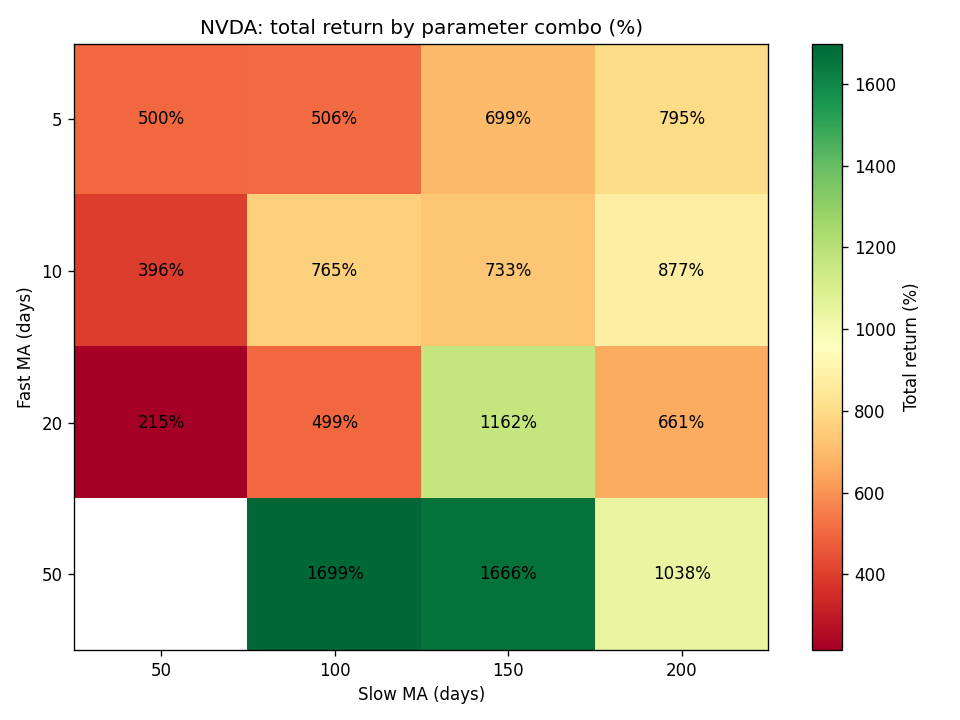
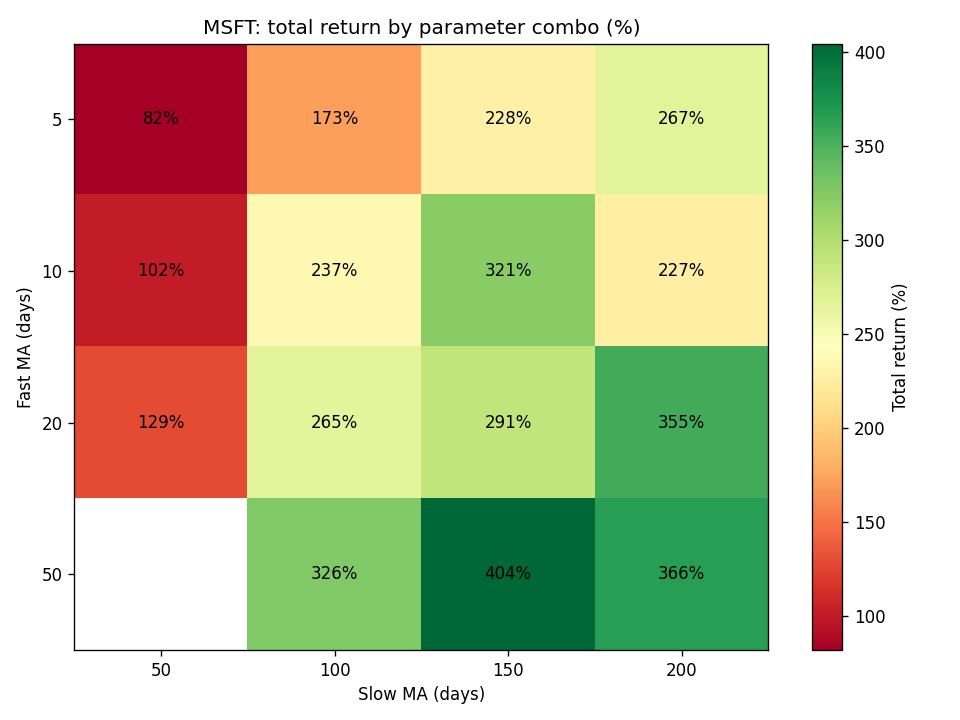
Test stop-loss and take-profit: 240% to 404% return on MSFT, beat buy and hold(290%)

diff --git a/backtest.py b/backtest.py
@@ -41,12 +41,20 @@ SLOW_MA = 50               # slow (long) moving average, in days
 
 COST_PER_TRADE = 0.001     # fee per trade (0.001 = 0.1%)
 
+# Risk management: exit a position early if it hits these (0 = disabled)
+STOP_LOSS_PCT = 0.05       # exit if down 5% from entry (0.05 = 5%), or 0 to disable
+TAKE_PROFIT_PCT = 0.10     # exit if up 10% from entry (0.10 = 10%), or 0 to disable
+
 # What to run:
-#   "single" -> test the one FAST_MA / SLOW_MA combo above (and draw the chart)
-#   "sweep"  -> test many combos below, rank them, and draw a heatmap
-MODE = "single"
+#   "single"       -> test one FAST_MA / SLOW_MA combo (and draw the chart)
+#   "sweep"        -> test many combos below, rank them, and draw a heatmap
+#   "multi_stock"  -> test the same params across many tickers below
+MODE = "sweep"
 SWEEP_FAST = [5, 10, 20, 50]      # fast windows to try in sweep mode
 SWEEP_SLOW = [50, 100, 150, 200]  # slow windows to try in sweep mode
+
+# For multi_stock mode: test the strategy on these tickers
+TICKERS_TO_TEST = ["MSFT", "NVDA", "TSLA", "AAPL"]
 
 # ============================================================
 #   (you don't need to touch anything below this line)
@@ -72,22 +80,51 @@ def get_prices(ticker, start, end):
     return close.to_frame("Close")
 
 
-def run_backtest(data, short_window, long_window, cost_per_trade):
-    """Apply the crossover rule and compute day-by-day results."""
+def run_backtest(data, short_window, long_window, cost_per_trade,
+                 stop_loss_pct=0, take_profit_pct=0):
+    """Apply the crossover rule with optional stop-loss and take-profit."""
 
     # 1) The two moving averages.
     data["ma_short"] = data["Close"].rolling(short_window).mean()
     data["ma_long"] = data["Close"].rolling(long_window).mean()
 
-    # 2) The target: 1.0 = "be fully in the stock", 0 = "be in cash".
-    target = (data["ma_short"] > data["ma_long"]).astype(float)
+    # 2) The signal from the crossover.
+    signal = (data["ma_short"] > data["ma_long"]).astype(int)
+    target = signal.shift(1).fillna(0)
 
-    # 3) THE MOST IMPORTANT LINE.
-    #    We act on YESTERDAY'S target, not today's. In real life you can't see
-    #    today's closing price and trade at that same close — so we shift the
-    #    target forward one day. Skipping this is the #1 way beginners fool
-    #    themselves into fake profits ("lookahead bias").
-    data["position"] = target.shift(1).fillna(0)
+    # 3) Apply stop-loss and take-profit on top of the MA signal.
+    #    Track entry price and exit if stop or profit is hit.
+    position = np.zeros(len(data))
+    entry_price = None
+    
+    for i in range(len(data)):
+        current_price = data["Close"].iloc[i]
+        
+        if position[i-1] == 0 and target.iloc[i] == 1:
+            # Entering the market.
+            position[i] = 1
+            entry_price = current_price
+        elif position[i-1] == 1:
+            # Already in the market — check stop/profit before checking MA signal.
+            price_change = (current_price - entry_price) / entry_price
+            
+            hit_stop = stop_loss_pct > 0 and price_change <= -stop_loss_pct
+            hit_profit = take_profit_pct > 0 and price_change >= take_profit_pct
+            
+            if hit_stop or hit_profit:
+                # Exit due to stop-loss or take-profit (override MA signal).
+                position[i] = 0
+                entry_price = None
+            elif target.iloc[i] == 0:
+                # Exit due to MA signal crossing.
+                position[i] = 0
+                entry_price = None
+            else:
+                # Stay in position.
+                position[i] = 1
+        # else: position[i-1] == 0 and target.iloc[i] == 0, so stay in cash.
+    
+    data["position"] = position
 
     # 4) The stock's daily percentage change.
     data["mkt_ret"] = data["Close"].pct_change().fillna(0)
@@ -99,12 +136,11 @@ def run_backtest(data, short_window, long_window, cost_per_trade):
     turnover = data["position"].diff().abs().fillna(0)
     data["strat_ret"] = data["strat_ret"] - turnover * cost_per_trade
 
-    # 7) Turn the stream of daily returns into a growing account balance,
-    #    starting from $1. This is what we plot.
+    # 7) Turn the stream of daily returns into a growing account balance.
     data["strat_equity"] = (1 + data["strat_ret"]).cumprod()
     data["hold_equity"] = (1 + data["mkt_ret"]).cumprod()
 
-    # Count a "trade" as moving in or out of the market (flat <-> invested).
+    # Count a "trade" as moving in or out of the market.
     in_market = (data["position"] > 0).astype(int)
     n_trades = int(in_market.diff().abs().fillna(0).sum())
 
@@ -210,14 +246,57 @@ def save_chart(ticker, fast, slow, data):
     print("\nChart saved to results.png (2 panels: strategy trades + equity curves)")
 
 
-def run_sweep(prices, fast_list, slow_list, cost, ticker):
+def run_multi_stock(tickers, fast, slow, start, end, cost, stop_loss, take_profit):
+    """Test the same strategy on multiple stocks and rank by return."""
+    rows = []
+    
+    for ticker in tickers:
+        try:
+            prices = get_prices(ticker, start, end)
+        except SystemExit:
+            print(f"  {ticker:>6} — no data")
+            continue
+        
+        data, n_trades = run_backtest(prices, fast, slow, cost, stop_loss, take_profit)
+        strat = summarize(data["strat_equity"], data["strat_ret"])
+        hold = summarize(data["hold_equity"], data["mkt_ret"])
+        wins, losses = trade_breakdown(data, cost)
+        win_rate = wins / (wins + losses) if (wins + losses) else 0
+        
+        rows.append((ticker, strat[0], hold[0], strat[1], strat[2], n_trades, win_rate))
+    
+    rows.sort(key=lambda r: r[1], reverse=True)  # rank by strategy return
+    
+    print("\n" + "=" * 75)
+    print(f"  Multi-stock test  ({fast}/{slow}-day MA, stop={stop_loss*100:.0f}%, "
+          f"profit={take_profit*100:.0f}%)")
+    print("=" * 75)
+    print(f"  {'Ticker':>8}{'Strategy':>12}{'Buy&Hold':>12}{'Sharpe':>9}"
+          f"{'MaxDD':>9}{'Trades':>8}{'Win%':>7}")
+    print("-" * 75)
+    for ticker, strat_ret, hold_ret, sharpe, max_dd, n_trades, win_rate in rows:
+        print(f"  {ticker:>8}{strat_ret:>11.1%}{hold_ret:>12.1%}{sharpe:>9.2f}"
+              f"{max_dd:>9.1%}{n_trades:>8}{win_rate:>6.0%}")
+    print("=" * 75)
+    
+    if rows:
+        best = rows[0]
+        print(f"\n  Best: {best[0]} with {best[1]:.1%} return")
+        if best[1] > best[2]:
+            print(f"  (beat buy-and-hold by {(best[1]-best[2])*100:.1f} percentage points)")
+        else:
+            print(f"  (buy-and-hold would have returned {best[2]:.1%})")
+
+
+
+def run_sweep(prices, fast_list, slow_list, cost, ticker, stop_loss, take_profit):
     """Test many fast/slow combos, print a ranked table, and draw a heatmap."""
     rows = []
     for fast in fast_list:
         for slow in slow_list:
             if fast >= slow:
                 continue  # fast must be shorter than slow
-            d, n_trades = run_backtest(prices.copy(), fast, slow, cost)
+            d, n_trades = run_backtest(prices.copy(), fast, slow, cost, stop_loss, take_profit)
             total, sharpe, max_dd = summarize(d["strat_equity"], d["strat_ret"])
             rows.append((fast, slow, total, sharpe, max_dd, n_trades))
 
@@ -241,15 +320,19 @@ def run_sweep(prices, fast_list, slow_list, cost, ticker):
     best = rows[0]
     print(f"\n  Best combo: {best[0]}/{best[1]}-day  ->  {best[2]:.1%} return")
     if best[2] > base[0]:
-        print("  The best combo beat buy-and-hold here, but that doesn't mean it will next time.")
+        print("  It beat buy-and-hold here.")
     else:
         print("  Even the best combo didn't beat buy-and-hold here.")
 
     save_sweep_heatmap(rows, fast_list, slow_list, ticker)
 
 
+
+
 def save_sweep_heatmap(rows, fast_list, slow_list, ticker):
     """Draw a grid of returns: one cell per fast/slow combo, greener = better."""
+    plt.close("all")  # clear any previous figures to avoid carryover
+    
     # Build a grid (rows = fast windows, cols = slow windows).
     lookup = {(fast, slow): total for fast, slow, total, *_ in rows}
     grid = np.full((len(fast_list), len(slow_list)), np.nan)
@@ -288,19 +371,28 @@ def main():
     parser.add_argument("--end", default=END_DATE, help="End date YYYY-MM-DD")
     parser.add_argument("--short", type=int, default=FAST_MA, help="Short MA window (days)")
     parser.add_argument("--long", type=int, default=SLOW_MA, help="Long MA window (days)")
-    parser.add_argument("--cost", type=float, default=COST_PER_TRADE, help="Cost per trade (0.001 = 0.1%)")
+    parser.add_argument("--cost", type=float, default=COST_PER_TRADE, help="Cost per trade")
     args = parser.parse_args()
+
+    if MODE == "multi_stock":
+        run_multi_stock(TICKERS_TO_TEST, args.short, args.long, args.start, args.end,
+                        args.cost, STOP_LOSS_PCT, TAKE_PROFIT_PCT)
+        return
 
     print(f"Downloading {args.ticker} from {args.start} to {args.end}...")
     prices = get_prices(args.ticker, args.start, args.end)
 
     if MODE == "sweep":
-        run_sweep(prices, SWEEP_FAST, SWEEP_SLOW, args.cost, args.ticker)
+        run_sweep(prices, SWEEP_FAST, SWEEP_SLOW, args.cost, args.ticker,
+                  STOP_LOSS_PCT, TAKE_PROFIT_PCT)
         return
 
-    data, n_trades = run_backtest(prices, args.short, args.long, args.cost)
+    # Single mode
+    data, n_trades = run_backtest(prices, args.short, args.long, args.cost,
+                                  STOP_LOSS_PCT, TAKE_PROFIT_PCT)
     print_single_result(args.ticker, args.short, args.long, data, n_trades, args.cost)
     save_chart(args.ticker, args.short, args.long, data)
+
 
 
 if __name__ == "__main__":
